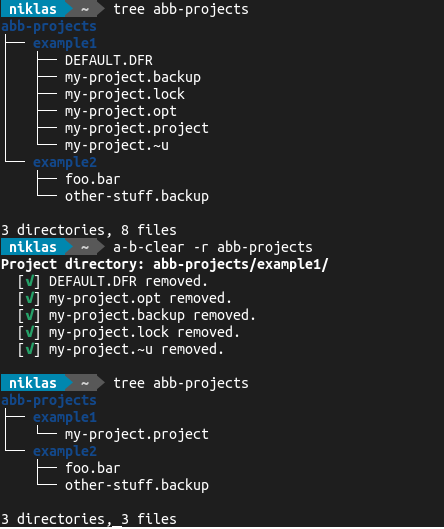
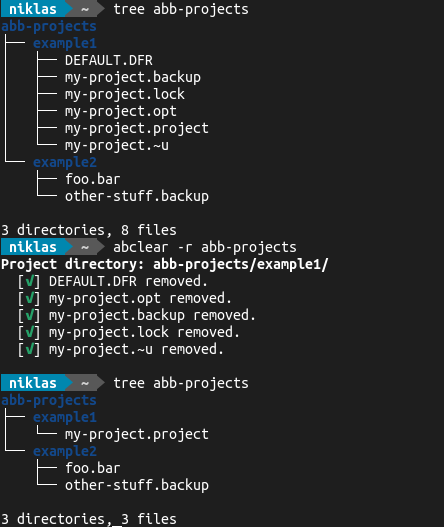
Update readme and screenshot

diff --git a/README.md b/README.md
@@ -8,17 +8,17 @@ find those temporary files and delete them accordingly.
 > :bulb: If the `trash` command is available, the files will be moved to your
 recycle bin. Otherwise, they will by irreversible destroyed by `rm`.
 
-**:rotating_light: Important notes: :rotating_light:**
+**Important notes:**
 
 * I'm not associated with *ABB* or the *Automation Builder* in any form. I have
-been working with this tool for years and personally find this script to be
-useful.
+  been working with this tool for years and personally find this script to be
+  useful.
 * Any project files are identified solely by a regex on their name! While I've
-been using this script a lot for some time and never encountered any problems
-with this mechanism, think twice before typing! You may lose some important
-data!
-* **This tool deletes files.** Currently there's no dry-mode implemented. Thus -
-as usual - **USE AT YOUR OWN RISK**.
+  been using this script a lot for some time and never encountered any problems
+  with this mechanism, think twice before typing! You may lose some important
+  data!
+* :rotating_light: **This tool deletes files.** As there's currently no dry-mode
+  implemented, **USE AT YOUR OWN RISK**. :rotating_light:
 
 ## Installation
 
@@ -28,7 +28,7 @@ Example:
 
 ```sh
 git clone https://github.com/nbe95/a-b-clear.git ~/.a-b-clear
-sudo ln -s ~/.a-b-clear/clear.sh /usr/local/bin/a-b-clear
+sudo ln -s ~/.a-b-clear/clear.sh /usr/local/bin/abclear
 ```
 
 ## Usage
